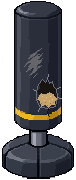
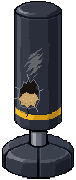
沙包劇情：溫特出拳往前衝、沙包晃動減半加左右挪動、沙包放大 1.2 倍、破洞改在左邊

Changed region(s): [[0.1842, 0.4167, 0.8158, 0.6667]]

diff --git a/js/story-scene.js b/js/story-scene.js
@@ -220,9 +220,14 @@ const StoryScene = (() => {
   const PUNCH = { combo: [1, 2, 2, 3, 3, 4], jab: [.11, .16], heavy: .26, between: [.07, .15], rest: [.45, 1.1], volume: [.6, .9], heavyVolume: 1.2 };
   // 被打的沙包（單張圖、檔名列在這裡的才會晃）：pivot＝搖晃的支點（圖片像素，支點以下的底座不動、以上整個左右晃）
   // torn＝破掉的圖（每頁 leak 時換上）、spout＝破口漏沙的位置（圖片像素）
-  const BAGS = { 'images/地下訓練室/sandbag.png': { pivot: [38, 132], torn: 'images/地下訓練室/sandbag-torn.png', spout: [49, 106] } };
+  // spoutDir＝沙往哪邊噴（-1 左、1 右）
+  const BAGS = { 'images/地下訓練室/sandbag.png': { pivot: [38, 132], torn: 'images/地下訓練室/sandbag-torn.png', spout: [29, 106], spoutDir: -1 } };
   // 搖晃：stiff＝回彈力（越大晃得越快）、damp＝阻力（越大越快停）、max＝最多斜多少（弧度）；jab／heavy／burst＝輕拳、重拳、破掉那一下推多大力
-  const SWAY = { stiff: 55, damp: 3.2, max: .24, jab: 1.3, heavy: 2.4, burst: 3.8 };
+  // slide＝斜過去時整個沙包（連底座）跟著往同一邊挪多少（斜 1 弧度挪幾像素），看起來比較有被打退的重量
+  const SWAY = { stiff: 55, damp: 3.2, max: .12, jab: .65, heavy: 1.2, burst: 1.9, slide: 22 };
+  // 出拳時身體往前衝（像素）：jab／heavy＝輕拳、重拳衝多遠，time＝衝出去再收回來共幾秒；重拳另外往下沉一點（sink）
+  const LUNGE = { jab: 2, heavy: 4.5, jabTime: .18, heavyTime: .32, sink: 1 };
+  const bagSlide = a => a.bag ? a.swA * SWAY.slide : 0;
   // 漏沙：flow＝前幾秒全速流、fade＝之後幾秒慢慢流完、rate＝每秒幾粒、pileMax＝沙堆最大半徑（像素）、colors＝沙子的顏色（亮、中、暗）
   const SAND = { flow: 9, fade: 5, rate: 45, pileMax: 10, colors: ['#e8c98c', '#c9a46a', '#96743f'] };
   const punchFrames = a => a.sprite ? ['', '02'].map(n => imageOnce('images/character/' + a.sprite + '/' + a.sprite.replace('_', '') + '_0007_right-side-punch' + n + '.png')) : null;
@@ -1001,6 +1006,7 @@ const StoryScene = (() => {
   }
   // ---- 出拳的節奏：guard＝收拳（擺好架勢）、hit＝拳打出去 ----
   function tickPunch(a, dt) {
+    if (a.lunge && (a.lunge.t += dt) >= a.lunge.dur) a.lunge = null;
     if (!a.punch) return;
     const p = a.pk || (a.pk = { phase: 'guard', t: rnd(.1, .3), left: 0, size: 0 });
     if ((p.t -= dt) > 0) return;
@@ -1010,6 +1016,7 @@ const StoryScene = (() => {
       const heavy = p.left === 0 && p.size >= 2;
       p.t = heavy ? PUNCH.heavy : rnd(...PUNCH.jab);
       landPunch(a, heavy);
+      a.lunge = { t: 0, dur: heavy ? LUNGE.heavyTime : LUNGE.jabTime, amt: heavy ? LUNGE.heavy : LUNGE.jab, heavy };
     } else {   // 收回來：還有拳就馬上接下一拳，打完一輪就喘口氣
       p.phase = 'guard'; p.t = p.left > 0 ? rnd(...PUNCH.between) : rnd(...PUNCH.rest);
     }
@@ -1037,7 +1044,7 @@ const StoryScene = (() => {
     const g = bagGeom(a);
     for (; L.carry >= 1; L.carry--) {   // 從破口掉出一粒沙（跟著沙包的晃動）
       const [sx, sy] = bagPoint(a, g, a.bag.spout);
-      L.grains.push({ x: sx + rnd(-1, 1), y: sy, vx: rnd(4, 16) + a.swV * 8, vy: rnd(-4, 6), c: SAND.colors[Math.floor(Math.random() * 3)] });
+      L.grains.push({ x: sx + rnd(-1, 1), y: sy, vx: (a.bag.spoutDir || 1) * rnd(4, 16) + a.swV * 8, vy: rnd(-4, 6), c: SAND.colors[Math.floor(Math.random() * 3)] });
     }
     for (const s of L.grains) { s.vy += 300 * dt; s.x += s.vx * dt; s.y += s.vy * dt; }
     const floor = a.y + 18;
@@ -1046,7 +1053,7 @@ const StoryScene = (() => {
   // 沙包圖在世界座標裡的位置：k＝圖片一像素畫多大、(x0, y0)＝圖片左上角
   function bagGeom(a) {
     const img = a.set.front[0], k = (Number(a.imageScale) || 1) * PLAYER.drawSize / 64;
-    return { k, x0: a.x - img.naturalWidth * k / 2, y0: a.y + 18 - img.naturalHeight * k };
+    return { k, x0: a.x + bagSlide(a) - img.naturalWidth * k / 2, y0: a.y + 18 - img.naturalHeight * k };
   }
   // 圖片上的一點（像素）→ 世界座標；支點以上的點跟著沙包斜過去
   function bagPoint(a, g, [ix, iy]) {
@@ -1087,7 +1094,10 @@ const StoryScene = (() => {
     const sk = a.shoutT > 0 ? a.shoutT / SHOUT_TIME : 0;
     const hk = a.hopT > 0 ? 1 - a.hopT / HOP_TIME : 0;   // 小跳：拋物線往上 5 像素再落回
     const shoutX = sk ? Math.sin(a.shoutT * 95) * 2.2 * sk : 0, shoutY = (sk ? -Math.sin((1 - sk) * Math.PI) * 3 : 0) - (hk ? Math.sin(hk * Math.PI) * 5 : 0);
-    ctx.translate(Math.round(a.x + kick) + shiver + shoutX + zap, a.y - size / 2 + 18 + breath + shoutY);
+    // 出拳往前衝：一下子衝出去、再慢慢收回來（前 25% 的時間衝、後面收）
+    const L = a.lunge, lp = L ? L.t / L.dur : 0, lk = L ? (lp < .25 ? lp / .25 : 1 - (lp - .25) / .75) : 0;
+    const lungeX = L ? (a.dir === 'left' ? -1 : 1) * L.amt * lk : 0, lungeY = L?.heavy ? LUNGE.sink * lk : 0;
+    ctx.translate(Math.round(a.x + kick + lungeX + bagSlide(a)) + shiver + shoutX + zap, a.y - size / 2 + 18 + breath + shoutY + lungeY);
     if (a.sitting?.rotation) ctx.rotate(a.sitting.rotation * Math.PI / 180);
     if (img === fistImg && a.dir === 'left') ctx.scale(-1, 1);   // 出拳圖只有朝右的，朝左就翻過來
     // 單張圖：照原本比例、跟人一樣高；imageScale＝照原圖像素大小畫（1＝跟角色同一個比例，例如擔架），底部對齊腳底

diff --git a/data/story-scenes.js b/data/story-scenes.js
@@ -840,14 +840,14 @@ const STORY_SCENES = {
     "cameras": { "沙包": [12, 14.6, 2.7], "全景": [12.3, 14, 2.1], "長椅": [10.6, 20.8, 2.9], "樓梯口": [22.6, 20, 2.9] },
     "portraits": { "溫特": "winter_A", "諾亞": "noah_A", "哨兵A": "mob_B", "哨兵B": "mob_B", "小林": "mob_B" },
     "actors": [
-      { "id": "sandbag", "image": "images/地下訓練室/sandbag.png", "imageScale": 0.39, "name": "沙包", "at": [9.7, 15.1], "dir": "front" },
+      { "id": "sandbag", "image": "images/地下訓練室/sandbag.png", "imageScale": 0.468, "name": "沙包", "at": [9.7, 15.1], "dir": "front" },
       { "id": "winter", "sprite": "winter_A", "name": "溫特", "at": [8.5, 15], "dir": "right" },
       { "id": "sentA", "sprite": "mob_B", "name": "哨兵A", "at": [15.7, 17.3], "dir": "left" },
       { "id": "sentB", "sprite": "mob_B", "name": "哨兵B", "at": [15.6, 13.3], "dir": "left" },
       { "id": "sentC", "sprite": "mob_B", "name": "哨兵C", "at": [16.2, 15.5], "dir": "left" },
-      { "id": "sandbagA", "image": "images/地下訓練室/sandbag.png", "imageScale": 0.39, "name": "哨兵A的沙包", "at": [14.5, 17.4], "dir": "front" },
-      { "id": "sandbagB", "image": "images/地下訓練室/sandbag.png", "imageScale": 0.39, "name": "哨兵B的沙包", "at": [14.4, 13.4], "dir": "front" },
-      { "id": "sandbagC", "image": "images/地下訓練室/sandbag.png", "imageScale": 0.39, "name": "哨兵C的沙包", "at": [15, 15.6], "dir": "front" },
+      { "id": "sandbagA", "image": "images/地下訓練室/sandbag.png", "imageScale": 0.468, "name": "哨兵A的沙包", "at": [14.5, 17.4], "dir": "front" },
+      { "id": "sandbagB", "image": "images/地下訓練室/sandbag.png", "imageScale": 0.468, "name": "哨兵B的沙包", "at": [14.4, 13.4], "dir": "front" },
+      { "id": "sandbagC", "image": "images/地下訓練室/sandbag.png", "imageScale": 0.468, "name": "哨兵C的沙包", "at": [15, 15.6], "dir": "front" },
       { "id": "noah", "sprite": "noah_A", "name": "諾亞", "at": [11.6, 19.8], "dir": "back", "speed": 60, "hidden": true, "carry": "images/道具/water.png" },
       { "id": "winterSit", "sprite": "winter_A", "name": "溫特", "bed": [9, 21], "at": [9.5, 21], "carry": "images/道具/water.png" },
       { "id": "noahSit", "sprite": "noah_A", "name": "諾亞", "bed": [11, 21], "at": [11.5, 21] },

diff --git a/塔防原型.html b/塔防原型.html
@@ -2,14 +2,14 @@
 <html lang="zh-Hant">
 <head>
 <script src="data/asset-moves.js?v=init-20261106"></script><script src="js/asset-moves.js?v=init-20261106"></script>   <!-- 素材搬家：瀏覽器暫存裡的舊路徑換成新路徑（必須最先載入） -->
-<script src="data/story-scenes.js?v=sandbag2-20261108"></script>   <!-- 劇情（🎬 劇情編輯器）：要先載入，下面才知道哪些地圖是回憶劇情 -->
+<script src="data/story-scenes.js?v=sandbag3-20261108"></script>   <!-- 劇情（🎬 劇情編輯器）：要先載入，下面才知道哪些地圖是回憶劇情 -->
 <script>
   window.STORY_PREVIEW = /[?&]storyPreview=/.test(location.search);
   if (/[?&]preview=1(&|$)/.test(location.search)) {   // 劇情地圖編輯器預覽的是有劇情的地圖：同樣只讀
     try { const id = JSON.parse(localStorage.getItem('tudrc_map_preview_v1') || 'null')?.map?.id; window.STORY_PREVIEW = Object.values(STORY_SCENES).some(s => s.map === id); } catch (_) {}
   }
 </script>
-<script src="js/story-scene.js?v=sandbag2-20261108"></script>
+<script src="js/story-scene.js?v=sandbag3-20261108"></script>
 <script src="data/story-kai.js?v=colynfx14-20261106"></script>   <!-- 回憶劇情（改）（🎬 劇情編輯器（改）） -->
 <script src="js/story-kai-fx.js?v=colynfx18-20261106"></script>   <!-- 回憶劇情（改）的特效 -->
 <script src="js/story-kai.js?v=kai53-20261106"></script>   <!-- 回憶劇情（改）的播放器：要在 story-scene.js 後面、maploader.js 前面 -->

diff --git a/劇情地圖編輯器.html b/劇情地圖編輯器.html
@@ -204,7 +204,7 @@
   <script src="data/items.js?v=devotionimg-20261106"></script>
   <script src="data/equipment.js?v=pouchv2-20261106"></script>
   <script src="data/doors.js?v=hugall-20261028"></script>        <!-- 可開關的門 -->
-  <script src="data/story-scenes.js?v=sandbag2-20261108"></script>   <!-- 記憶之門可以選的劇情 -->
+  <script src="data/story-scenes.js?v=sandbag3-20261108"></script>   <!-- 記憶之門可以選的劇情 -->
   <script src="data/story-kai.js?v=colynfx14-20261106"></script>   <!-- 記憶之門也可以選「劇情編輯器（改）」做的劇情 -->
   <script src="js/memory-door-editor.js?v=kai-20261103"></script>   <!-- 記憶之門：鑰匙、劇情選單 -->
   <script src="js/sfx.js?v=storypunch-20261108"></script>

diff --git a/劇情編輯器（改）.html b/劇情編輯器（改）.html
@@ -261,7 +261,7 @@
   <script src="data/monsters.js?v=wide-20261031"></script>   <!-- 怪物種類（怪物出現用） -->
   <script src="data/items.js?v=devotionimg-20261106"></script>   <!-- 道具出現用：背包物品 -->
   <script src="data/supplies.js?v=onepen-20261107"></script>
-  <script src="data/story-scenes.js?v=sandbag2-20261108"></script>   <!-- 舊劇情編輯器的劇情：可以搬過來（js/story-kai-import.js） -->
+  <script src="data/story-scenes.js?v=sandbag3-20261108"></script>   <!-- 舊劇情編輯器的劇情：可以搬過來（js/story-kai-import.js） -->
   <script src="data/story-kai.js?v=colynfx14-20261106"></script>
   <script src="js/story-kai-fx.js?v=colynfx18-20261106"></script>
   <script src="js/ui-feedback.js"></script>

diff --git a/地圖編輯器.html b/地圖編輯器.html
@@ -210,7 +210,7 @@
   <script src="data/items.js?v=devotionimg-20261106"></script>
   <script src="data/equipment.js?v=pouchv2-20261106"></script>
   <script src="data/doors.js?v=hugall-20261028"></script>        <!-- 可開關的門 -->
-  <script src="data/story-scenes.js?v=sandbag2-20261108"></script>   <!-- 記憶之門可以選的劇情 -->
+  <script src="data/story-scenes.js?v=sandbag3-20261108"></script>   <!-- 記憶之門可以選的劇情 -->
   <script src="data/story-kai.js?v=colynfx14-20261106"></script>   <!-- 記憶之門也可以選「劇情編輯器（改）」做的劇情 -->
   <script src="js/memory-door-editor.js?v=kai-20261103"></script>   <!-- 記憶之門：鑰匙、劇情選單 -->
   <script src="js/sfx.js?v=storypunch-20261108"></script>

diff --git a/基地編輯器.html b/基地編輯器.html
@@ -236,7 +236,7 @@
   <script src="data/items.js?v=devotionimg-20261106"></script>
   <script src="data/equipment.js?v=pouchv2-20261106"></script>
   <script src="data/doors.js?v=hugall-20261028"></script>        <!-- 可開關的門 -->
-  <script src="data/story-scenes.js?v=sandbag2-20261108"></script>   <!-- 記憶之門可以選的劇情 -->
+  <script src="data/story-scenes.js?v=sandbag3-20261108"></script>   <!-- 記憶之門可以選的劇情 -->
   <script src="data/story-kai.js?v=colynfx14-20261106"></script>   <!-- 記憶之門也可以選「劇情編輯器（改）」做的劇情 -->
   <script src="js/memory-door-editor.js?v=kai-20261103"></script>   <!-- 記憶之門：鑰匙、劇情選單 -->
   <script src="js/sfx.js?v=storypunch-20261108"></script>

diff --git a/劇情編輯器.html b/劇情編輯器.html
@@ -158,7 +158,7 @@
   <script src="data/story-maps.js?v=onepen-20261107"></script>
   <script src="data/characters.js?v=guideability-20261025"></script>
   <script src="data/monsters.js?v=gourd-speed-20261028"></script>
-  <script src="data/story-scenes.js?v=sandbag2-20261108"></script>
+  <script src="data/story-scenes.js?v=sandbag3-20261108"></script>
   <script src="js/ui-feedback.js"></script>
   <script src="js/project-save.js?v=filewarn-20261026"></script>
   <script src="js/stamp-transform.js?v=stampscale-20261105"></script>   <!-- 物件的大小、角度（跟遊戲共用同一套算法） -->
